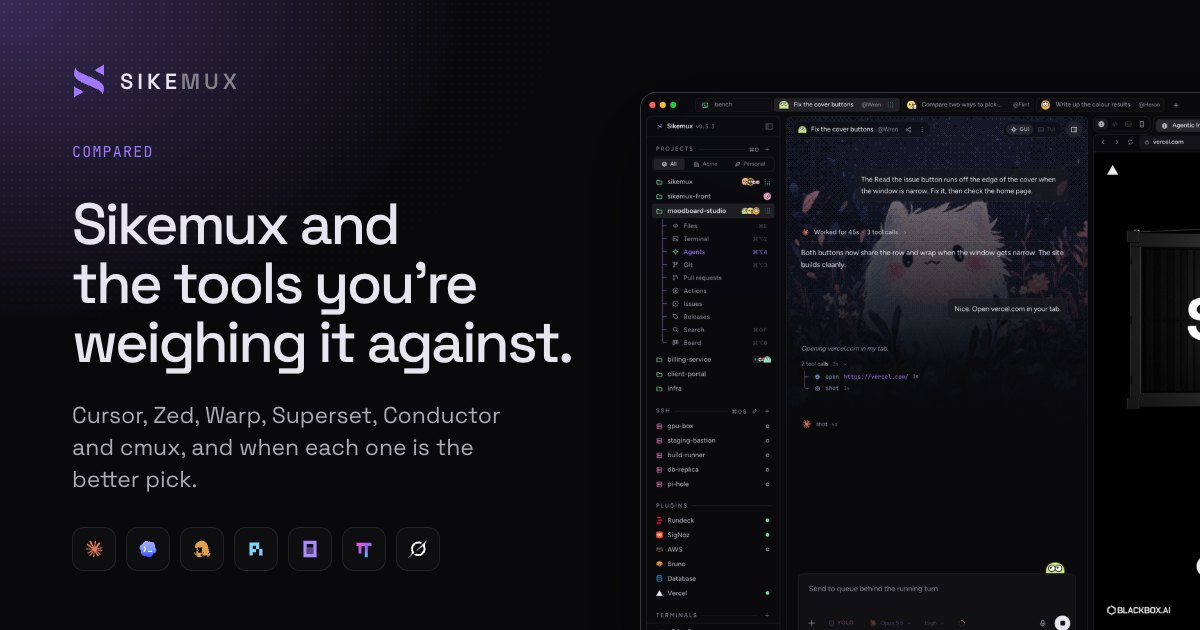
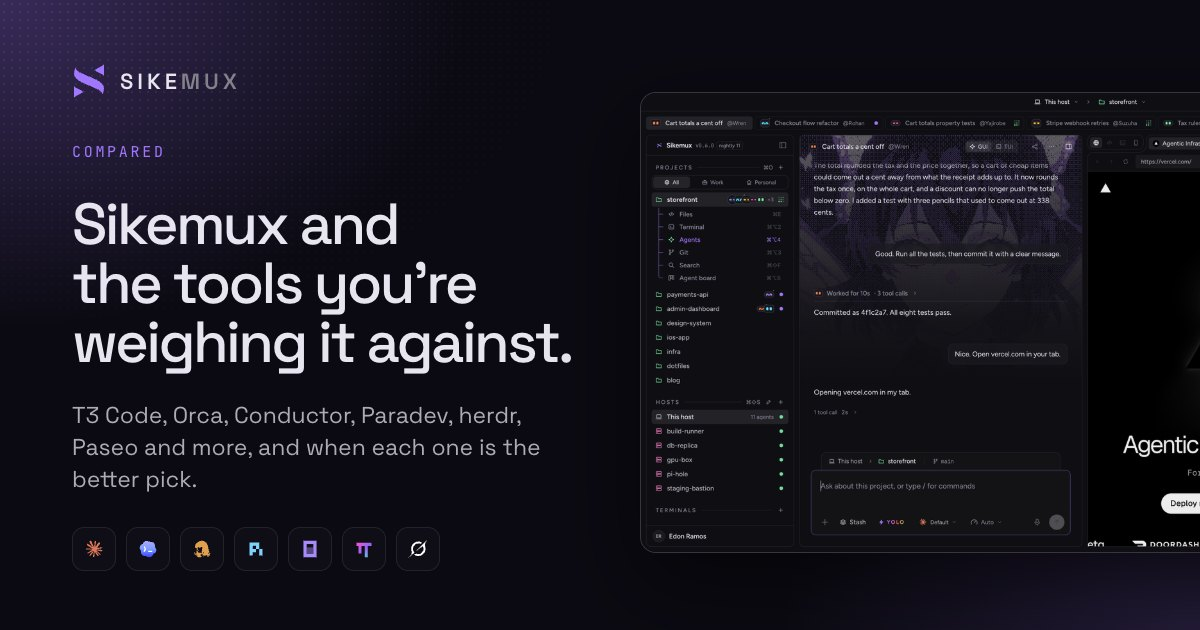
feat(landing): lead with the limit handoff, and compare with the tools people are leaving Conductor for. The hero says "Out of Claude? The chat carries on in Codex." with "which agent needs you" second, then native, not Electron, about 25 MB, your own plans, agents from different vendors as one team
Agent: Aisa (claude 2.1.322, claude-opus-5-5, sikemux 0.6.1-nightly.17, session 0d833b39-ab08-4a85-a5aa-a2a0f779a2d3, chat agent-6984f4b76d1a44a2a956a7837ca217cf, host 03c112f7c38a48c2)
Agent-Signature: 7LUa/s7yzQXPnwMNn950awj74E8VRUwdi4AOWfh3RWe4/JoKZ3qHpckAkrhuLFGGHJM4MQTcvWV9pP78vThxDQ

diff --git a/src/lib/comparisons.ts b/src/lib/comparisons.ts
@@ -7,9 +7,88 @@ export interface Comparison {
     pickThem: string[];
     pickSikemux: string[];
     bytes?: number;
+    measuredAs?: string;
 }
 
+const LIMITS = "You want each plan's limit in view, and a chat that carries on in Codex when Claude runs out.";
+
 export const COMPARISONS: Comparison[] = [
+    {
+        slug: "t3code",
+        name: "T3 Code",
+        kind: "agent chat app",
+        what: "T3 Code is a free, MIT-licensed app for driving Claude Code, Codex, OpenCode, Cursor, Grok and other agents from one place, on Mac, Windows and Linux, with a phone app that reaches your computer.",
+        difference:
+            "Both run the agent CLIs on the plans you already pay for. T3 Code is a chat front end for them, built on Electron. Sikemux is a native app of about 25 MB, drawn on the GPU, that puts each chat in its project with the editor, terminals, Git and a browser tab for each agent.",
+        pickThem: ["You need Windows.", "You want Cursor's or Antigravity's agent in the same list.", "You want a large community and nightly releases."],
+        pickSikemux: ["You want a small native app that stays quick with many agents open.", LIMITS, "You want the editor, Git and a browser for each agent on the same project."],
+    },
+    {
+        slug: "orca",
+        name: "Orca",
+        kind: "agent development environment",
+        what: "Orca, from Stably, is a free, MIT-licensed app for running a fleet of coding agents such as Claude Code and Codex on your own subscriptions, each in its own Git worktree, with a browser, an iOS Simulator and a phone app beside them. It runs on Apple Silicon and Intel Macs, Windows and Linux.",
+        difference:
+            "Orca and Sikemux cover much of the same ground: many agents on your own plans, a browser and a Simulator for them, and a phone app. Orca is built around worktrees and a long list of agents, and ships several releases a day. Sikemux is a native app of about 25 MB built around the project and its chats, where a @Chief starts and steers the other agents for you.",
+        pickThem: ["You need Windows or an Intel Mac.", "You want an agent Sikemux doesn't run; Orca lists more than 35.", "You want each task in its own worktree by default."],
+        pickSikemux: ["You want a small native app that stays quick with many agents open.", LIMITS, "You want your Git host, CI, issues, logs and databases on the same project."],
+    },
+    {
+        slug: "conductor",
+        name: "Conductor",
+        kind: "parallel agent runner",
+        what: "Conductor is a Mac app that runs several Claude Code and Codex agents in parallel, each in its own Git worktree, with a diff to review for each, and Conductor Cloud for agents on hosted machines. It joined Meta on 4 November 2026, and on 12 November said it will keep developing the app, with sign-ups open again.",
+        difference:
+            "Conductor is built around running many agents side by side and reviewing their diffs. Sikemux is independent and built around the project: one window with the agents, the editor, Git, a browser for each agent and your CI, issues and logs on the same folder. It has no hosted cloud; any computer on your account, or an SSH box you turn into one, runs the agents instead.",
+        pickThem: ["You want to fan one task out to many agents and pick the best result.", "You want agents on hosted cloud machines.", "Your workspaces are already there and they work for you."],
+        pickSikemux: ["You want an independent, MIT-licensed app on machines you own.", "You want agents to test in their own browser tab or iOS Simulator.", LIMITS],
+    },
+    {
+        slug: "paradev",
+        name: "Paradev",
+        kind: "parallel agent runner",
+        what: "Paradev, called Superset until 26 October 2026, runs many coding agents at once on your own subscriptions, each task in its own Git worktree and branch, and lets you review and merge what they produce. It is free for one person on local workspaces; remote access, automations and its phone app are in Pro at $20 a month, and cloud hours in Team.",
+        difference:
+            "Paradev is built around the agents. Sikemux is built around the project: agents share one window with the editor, Git, a real browser and your GitHub, GitLab, Bitbucket, Jira, database, AWS, Rundeck, SigNoz and Bruno views, all on the same folder.",
+        pickThem: ["You want to run a crowd of agents in parallel and merge the best results.", "Worktree-per-task is the way you want to work.", "You want hosted cloud machines for a team."],
+        pickSikemux: ["You want the phone app and your other computers free, not in a paid plan.", "You want agents to test in their own browser tab or iOS Simulator.", "You want a small app: Sikemux is a fraction of Paradev's download."],
+        bytes: 453_107_779,
+        measuredAs: "Superset",
+    },
+    {
+        slug: "herdr",
+        name: "herdr",
+        kind: "agent multiplexer",
+        what: "herdr is an open-source agent multiplexer that lives in your terminal. Agents run in panes that keep going after you close the window, it shows at a glance which of them need you, and one command installs it on a server over SSH. A desktop app and a phone app sit on top.",
+        difference:
+            "herdr keeps the agents in terminals and stays out of the way. Sikemux reads each agent's session as a chat you can steer, with the editor, Git review and a browser for each agent on the same project, and shows which agent needs you in the window, over the MacBook notch and on your phone.",
+        pickThem: ["You live in the terminal and want your agents there, the way tmux works.", "You want the thinnest layer over your agents' own CLIs."],
+        pickSikemux: ["You want agents' work as chats with diffs, not terminal scrollback.", "You want the editor, Git, CI and a browser for each agent in one window.", LIMITS],
+    },
+    {
+        slug: "paseo",
+        name: "Paseo",
+        kind: "desktop and phone agent app",
+        what: "Paseo orchestrates several coding agents from desktop and mobile. It began as a push-to-talk voice remote for Claude Code, is built by one maintainer, and publishes its source on GitHub under its own licence.",
+        difference:
+            "Paseo is built for reaching your agents from anywhere, by phone and by voice. Sikemux is built around the project at your desk: chats beside the editor, terminals, Git and a browser for each agent, with the phone and the notch for answering them when you're away.",
+        pickThem: ["You mostly talk to your agents by voice or from your phone."],
+        pickSikemux: ["You want an app under the MIT licence.", "You want the editor, Git review and a browser for each agent at your desk.", LIMITS],
+    },
+    {
+        slug: "cmux",
+        name: "cmux",
+        kind: "terminal for agents",
+        what: "cmux is a native macOS terminal built on Ghostty's engine for running many coding agent sessions, with a sidebar of workspaces and notifications when an agent needs you.",
+        difference:
+            "cmux is a terminal made for juggling many sessions. Sikemux is an IDE: chats you can read and steer, a code editor, Git review, a browser for each agent and your CI, issues and logs, on one project.",
+        pickThem: ["You live in the terminal and want the agents there too.", "You want the lightest possible layer over your shell."],
+        pickSikemux: [
+            "You want agents' work as chats with diffs, not raw terminal output.",
+            "You want the editor, Git and your deploy tools in the same window.",
+            "You want to answer your agents from your phone or the notch.",
+        ],
+    },
     {
         slug: "cursor",
         name: "Cursor",
@@ -54,49 +133,6 @@ export const COMPARISONS: Comparison[] = [
             "You want the editor, Git and a browser on the same project as the agent.",
         ],
         bytes: 334_774_677,
-    },
-    {
-        slug: "superset",
-        name: "Superset",
-        kind: "parallel agent runner",
-        what: "Superset runs many coding agents at once, each task in its own Git worktree and branch, and lets you review and merge what they produce.",
-        difference:
-            "Superset is built around the agents. Sikemux is built around the project: agents share one window with the editor, Git, a real browser and your GitHub, GitLab, Bitbucket, Jira, database, AWS, Rundeck, SigNoz and Bruno views, all on the same folder.",
-        pickThem: ["You want to run a crowd of agents in parallel and merge the best results.", "Worktree-per-task is the way you want to work."],
-        pickSikemux: [
-            "You work on one project at a time with a few agents beside you.",
-            "You want agents to test in their own browser tab or iOS Simulator.",
-            "You want a small app: Sikemux is a fraction of Superset's download.",
-        ],
-        bytes: 453_107_779,
-    },
-    {
-        slug: "conductor",
-        name: "Conductor",
-        kind: "parallel agent runner",
-        what: "Conductor is a Mac app that runs several Claude Code and Codex agents in parallel, each in its own Git worktree, with a diff to review for each.",
-        difference:
-            "Conductor is built around running many agents side by side. Sikemux is built around the project: one window with the agents, the editor, Git, a browser for each agent and your CI, issues and logs on the same folder.",
-        pickThem: ["You want to fan one task out to many agents and pick the best result.", "You want cloud workspaces for your agents."],
-        pickSikemux: [
-            "You want to watch and steer agents as they work, not only review their diffs.",
-            "You want agents to test in their own browser tab or iOS Simulator.",
-            "You want a real code editor, terminals and deploy tools in the same window.",
-        ],
-    },
-    {
-        slug: "cmux",
-        name: "cmux",
-        kind: "terminal for agents",
-        what: "cmux is a native macOS terminal built on Ghostty's engine for running many coding agent sessions, with a sidebar of workspaces and notifications when an agent needs you.",
-        difference:
-            "cmux is a terminal made for juggling many sessions. Sikemux is an IDE: chats you can read and steer, a code editor, Git review, a browser for each agent and your CI, issues and logs, on one project.",
-        pickThem: ["You live in the terminal and want the agents there too.", "You want the lightest possible layer over your shell."],
-        pickSikemux: [
-            "You want agents' work as chats with diffs, not raw terminal output.",
-            "You want the editor, Git and your deploy tools in the same window.",
-            "You want to answer your agents from your phone or the notch.",
-        ],
     },
 ];
 

diff --git a/src/lib/analytics.ts b/src/lib/analytics.ts
@@ -1,0 +1,45 @@
+import type { PostHog } from "posthog-js";
+
+const REF_KEY = "sikemux-ref";
+
+let client: Promise<PostHog> | null = null;
+
+function arrivalRef(): string | null {
+    const fromLink = new URLSearchParams(location.search).get("ref");
+    try {
+        if (fromLink) sessionStorage.setItem(REF_KEY, fromLink);
+        return fromLink ?? sessionStorage.getItem(REF_KEY);
+    } catch {
+        return fromLink;
+    }
+}
+
+function analytics(): Promise<PostHog> | null {
+    if (!import.meta.env.PROD || location.hostname !== "sikemux.com") return null;
+    client ??= import("posthog-js").then(({ default: posthog }) => {
+        const ref = arrivalRef();
+        posthog.init("phc_yGaffnPw38wHvQKgusATcKtYmkyDCbNNGpTo3sK9pQoD", {
+            api_host: "/ingest",
+            ui_host: "https://eu.posthog.com",
+            defaults: "2026-05-30",
+            cookieless_mode: "always",
+            autocapture: false,
+            disable_session_recording: true,
+            capture_performance: false,
+            advanced_disable_flags: true,
+            loaded: (loaded) => {
+                if (ref) loaded.register({ ref });
+            },
+        });
+        return posthog;
+    });
+    return client;
+}
+
+export function startAnalytics() {
+    void analytics();
+}
+
+export function capture(event: string, properties: Record<string, unknown> = {}) {
+    void analytics()?.then((posthog) => posthog.capture(event, properties, { transport: "sendBeacon" }));
+}

diff --git a/src/lib/faq.ts b/src/lib/faq.ts
@@ -18,11 +18,11 @@ export const FAQ: FaqEntry[] = [
     },
     {
         question: "Linux, Windows, Intel Macs?",
-        answer: "Apple Silicon Macs on macOS 11 or later, and x86_64 Linux as a .deb, .rpm or AppImage. Windows and Intel Macs can build it from source, but there's no download for them yet.",
+        answer: "Apple Silicon Macs on macOS 11 or later, and x86_64 Linux as a .deb, .rpm or AppImage. Windows and Intel Macs can build it from source, but there's no download for them yet. Leave your email at the top of this page and we'll write when there is.",
     },
     {
         question: "What does it cost?",
-        answer: "Nothing, at home or at work. You only pay for the agents' own plans, the ones you already have.",
+        answer: "Nothing, at home or at work, and the source is MIT. You only pay for the agents' own plans, the ones you already have.",
     },
 ];
 

diff --git a/src/lib/cards.ts b/src/lib/cards.ts
@@ -20,7 +20,7 @@ export const CARDS: Card[] = [
         body: `Run ${agent.name} ${agent.chat ? "in a chat" : "in a terminal"} beside your code, with its own browser tab, Git review and your tools.`,
         agents: [{ id: agent.icon, color: agent.color }],
     })),
-    { path: "/vs", label: "Compared", title: "Sikemux and the tools you're weighing it against.", body: "Cursor, Zed, Warp, Superset, Conductor and cmux, and when each one is the better pick." },
+    { path: "/vs", label: "Compared", title: "Sikemux and the tools you're weighing it against.", body: "T3 Code, Orca, Conductor, Paradev, herdr, Paseo and more, and when each one is the better pick." },
     ...COMPARISONS.map((comparison) => ({
         path: comparisonPath(comparison),
         label: "Compared",
